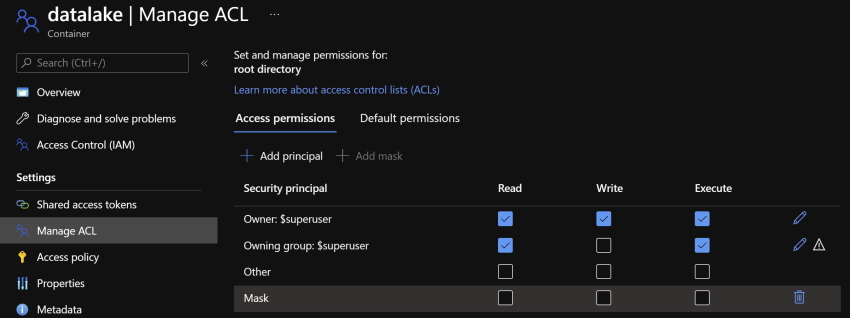
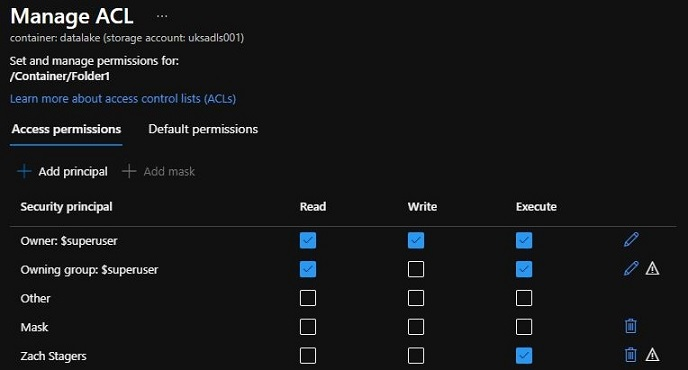
Finished ACL blog

diff --git a/content/post/Azure Data Lake ACL Introduction/index.md b/content/post/Azure Data Lake ACL Introduction/index.md
@@ -7,8 +7,8 @@ tags:
     - "Azure"
     - "Data Lake"
     - "Security"
-draft: true
-#image: manage_acl_mask_.jpg
+draft: false
+image: banner_azure_datalake_acl.jpg
 ---
 
 ### Introduction to ACL's
@@ -24,17 +24,23 @@ The ACL permissisions on offer are:
 
 As well as setting access explitly to a folder, defaults can be set at any level to inherit permissions to *newly created* sub folders and files, but note that these *do not* apply to folders and files which already exist.
 
-Below is a visualisation of a simple folder structure with the minimum ACL's required at each level to read data from "File 1". Although this depicts the minimum permissions required to get to a single file, in reality you'd likely elevate the Read permission to "Sub Folder 1" as a default permission, therefore allowing it to inherit down to all files and folders listed underneath it.
+Below is a visualisation of a simple folder structure with the minimum ACL's required at each level to read data from "File 1", whilst granting no access to "File 2". Although this depicts the minimum permissions required to get to a single file, in reality you'd likely elevate the Read permission to "Sub Folder 1" as a default permission, therefore allowing it to inherit down to all files and folders listed underneath it.
 
 ![Data Lake ACL Example](datalake_acl_example.jpg)
+
+### Testing ACL's
 
 There are a few things to be mindful of when testing with ACL's:
 * Folder names are case sensitive.
 * Testing via storage explorer won't work, you need to use something like Databricks or Power BI.
 * You need to connect to the lake using the Data Lake Storage end point - `https://<lakename>.dfs.core.windows.net/<container>/<folders>`
-* You must have a Read permission on the folder you're trying to connect to.
 
-### So what's the Mask for?
+### The Mask ACL
 
+When managing ACL's, there's a button to Add prinicipal, which allows you to select and add a user or group to assign ACL permissions to. There's also a button to Add mask, and this defines an override of the effective permissions for named users and groups.
 
-![](manage_acl_mask.jpg)
+In the below screenshot, I've added a mask and removed all permissions. Next to my Zach Stagers named user with Execute permissions you see a warning symbol. If you hover over the warning, it'll say "The following access permissions are beyond the bounds of the mask: Execute". This is just highlighting to you that although Zach Stagers has Execute, it won't be effective because the Mask has disabled Execute permissions for all users.
+
+![Manage ACL Screen with a mask applied](manage_acl_mask.jpg)
+
+You might use this in scenarios where someone has put something sensitive or something they shouldn't in a folder in the lake and you want an admin to be able to go in and remove it whilst restricting access for everyone else. This is a much easier method than removing all of your assigned ACL's and then having to readd them.

diff --git a/content/page/about/about.md b/content/page/about/about.md
@@ -18,19 +18,19 @@ comments:
 
 I've been working with data platforms and related technologies since 2008 and have touched everything from SQL Server 2000 through to ultramodern Data Lakehouses using Databricks in Azure.
 
-My day job as a Principal Consultant with [Advancing Analytics](https://www.advancinganalytics.co.uk/) is an extremely diverse role, and covers many subject areas and technologies. We predominantly focus on data engineering and data science projects, delivering our projects using data lakes and python, instead of servers and SQL... I'm enormously passionate about my job, and love doing cool and exciting things with data!
+My day job as a Principal Consultant with [Advancing Analytics](https://www.advancinganalytics.co.uk/) is an extremely diverse role, and covers many subject areas and technologies. We predominantly focus on data engineering and data science projects, typically delivering data lakes and python, instead of servers and SQL... Although I often tell people SQL was my first true love. I'm enormously passionate about my job, and love doing cool and exciting things with data!
 
-My intention with this site is to share my technical findings, to serve as a catalog of the things I've worked on, and to contribute to the fantastic data communities... and as a reminder to myself of how to fix tricky problems I've faced before in my career! 
+My intention with this site is to share my technical findings, to serve as a catalog of some of the things I've worked on, and to contribute to the fantastic data communities... and as a reminder to myself of how to fix tricky problems I've faced before in my career! 
 
 ### Offline
 
-I currently live in the south coast of England, and away from work I spend a great deal of time out and about with my camera, typically trying to capture images of landscapes or animals.
+I currently live in the south coast of England, and away from work I spend a great deal of time out and about with my camera, typically trying to capture images of landscapes or animals. The banner images for my posts are my own photographs - trying to find some relevance between a post and picture can be tricky! If you'd care to, you can see more of my photographs [here](https://www.istockphoto.com/portfolio/ZachStagers).
 
 I also thoroughly enjoy cooking (and eating), am a big sports fan, love to travel, and watch lots of film & television.
 
 ![Me after the Great South Run 2019](page/about/zach_stagers_about1.jpg) 
 
-Me after the Great South Run 2019!
+This is me, just after the Great South Run 2019!
 
 ### Get in touch
 
